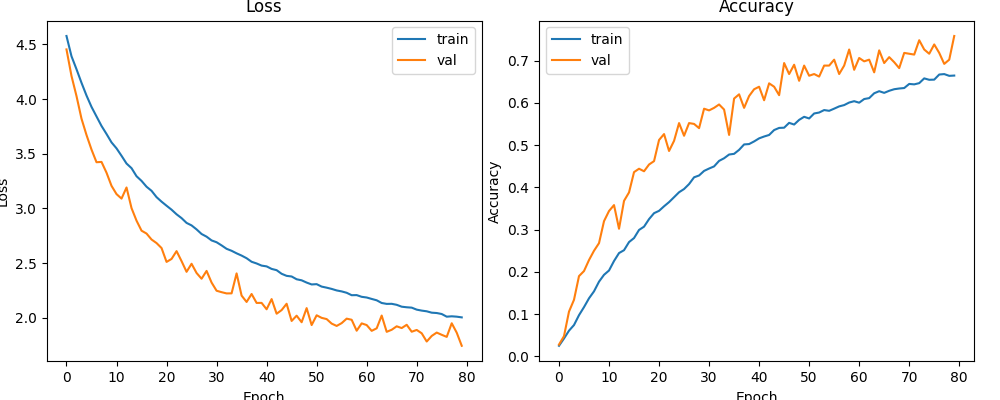
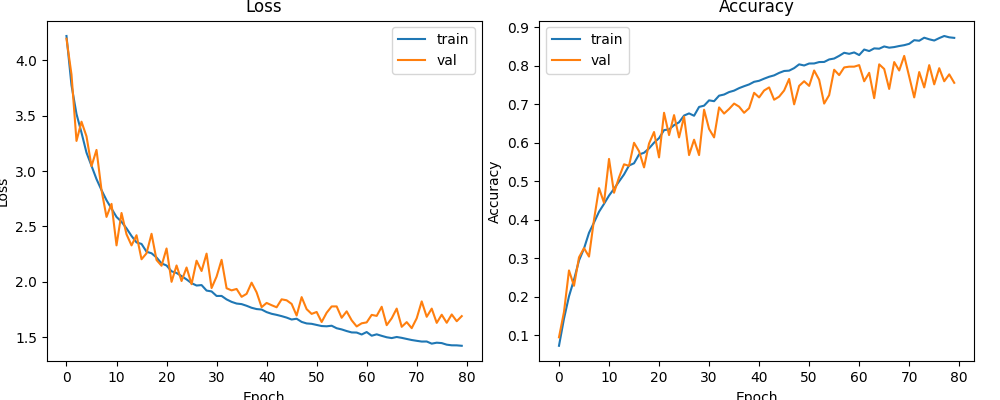
offload transforms to GPU + compile model + AMP [mixed precision]

diff --git a/master/VIPM/sports_classification/project_utils.py b/master/VIPM/sports_classification/project_utils.py
@@ -28,37 +28,30 @@ def seed_everything(seed: int):
     # fallback kernel paths that produce NaN gradients, killing training entirely.
 
 
-def get_baseline_transforms() -> dict:
-    return {
-        'train': v2.Compose([
-            v2.ToImage(),
-            v2.RandomHorizontalFlip(),
-            v2.RandomResizedCrop(224, scale=(0.6, 1.0)),
-            v2.RandomAdjustSharpness(sharpness_factor=2),
-            v2.ToDtype(torch.float32, scale=True),
-        ]),
-        'val': v2.Compose([
-            v2.ToImage(),
-            v2.ToDtype(torch.float32, scale=True),
-        ]),
-    }
-
-def get_degraded_transforms() -> dict:
-    base_transf = get_baseline_transforms()
-    base_transf['train'] = v2.Compose([
+def get_val_transforms():
+    return v2.Compose([
         v2.ToImage(),
-        v2.RandomHorizontalFlip(),
-        v2.RandomResizedCrop(224, scale=(0.6, 1.0)),
-        v2.ColorJitter(
-            brightness=0.35,
-            contrast=0.4,
-            saturation=(0.7, 3.0),  # tuple → asymmetric; degradation is predominantly a saturation increase
-            hue=0.25,  # covers ~80% of observed hue shifts
-        ),
-        v2.RandomAdjustSharpness(sharpness_factor=2),
         v2.ToDtype(torch.float32, scale=True)
     ])
-    return base_transf
+
+
+def get_cpu_train_transform():
+    return v2.ToImage()
+
+
+def get_gpu_train_transform(degraded=False):
+    steps = [
+        v2.RandomHorizontalFlip(),
+        v2.RandomResizedCrop(224, scale=(0.6, 1.0)),
+    ]
+    if degraded:
+        steps.append(v2.ColorJitter(
+            brightness=0.35, contrast=0.4,
+            saturation=(0.7, 3.0), hue=0.25,
+        ))
+    steps.append(v2.RandomAdjustSharpness(sharpness_factor=2))
+    steps.append(v2.ToDtype(torch.float32, scale=True))
+    return v2.Compose(steps)
 
 
 def plot_performance(metrics: dict, save_path: str):
@@ -104,8 +97,10 @@ def mixup_criterion(criterion, pred, y_a, y_b, lam):
 
 
 def train(model, lossfun, optimizer, *, train_loader, val_loader, train_size, val_size,
-          device, metrics, scheduler=None, num_epochs=20, mixup_alpha=0.0):
+          device, metrics, scheduler=None, num_epochs=20,
+          train_gpu_transform=None, use_amp=False):
     since = time.time()
+    scaler = torch.GradScaler() if use_amp else None
 
     with TemporaryDirectory() as tempdir:
         best_model_path = os.path.join(tempdir, 'best_model_params.pt')
@@ -124,31 +119,27 @@ def train(model, lossfun, optimizer, *, train_loader, val_loader, train_size, va
                 running_corrects = torch.tensor(0, device=device)
 
                 for inputs, labels in dataloader:
-                    inputs = inputs.to(device)
-                    labels = labels.to(device)
+                    inputs = inputs.to(device, non_blocking=True)
+                    labels = labels.to(device, non_blocking=True)
+                    if phase == 'train' and train_gpu_transform is not None:
+                        inputs = train_gpu_transform(inputs)
                     optimizer.zero_grad()
 
                     with torch.set_grad_enabled(phase == 'train'):
-                        if phase == 'train' and mixup_alpha > 0:
-                            # apply mixup to blend inputs and labels for regularization
-                            inputs, targets_a, targets_b, lam = mixup_data(inputs, labels, mixup_alpha)
-                            outputs = model(inputs)
-                            loss = mixup_criterion(lossfun, outputs, targets_a, targets_b, lam)
-                            # always backward and optimizer step because we're already in 'train' phase if we mixup
-                            loss.backward()
-                            optimizer.step()
-                            _, preds = torch.max(outputs, 1)
-                            running_loss += loss.item() * inputs.size(0)
-                            running_corrects += torch.sum(preds == targets_a.data)
-                        else:
+                        with torch.autocast(device_type=device, dtype=torch.float16, enabled=(use_amp and phase == 'train')):
                             outputs = model(inputs)
                             _, preds = torch.max(outputs, 1)
                             loss = lossfun(outputs, labels)
-                            if phase == 'train':
+                        if phase == 'train':
+                            if scaler is not None:
+                                scaler.scale(loss).backward()
+                                scaler.step(optimizer)
+                                scaler.update()
+                            else:
                                 loss.backward()
                                 optimizer.step()
-                            running_loss += loss.item() * inputs.size(0)
-                            running_corrects += torch.sum(preds == labels.data)
+                        running_loss += loss.item() * inputs.size(0)
+                        running_corrects += torch.sum(preds == labels.data)
 
                 if phase == 'train' and scheduler is not None:
                     scheduler.step()

diff --git a/master/VIPM/sports_classification/degraded.py b/master/VIPM/sports_classification/degraded.py
@@ -12,12 +12,13 @@ import matplotlib.pyplot as plt
 import torch
 import torch.optim as optim
 from torch import nn
+from torch.optim import lr_scheduler
 from torchinfo import summary
 from torchvision import datasets
 from torchvision.transforms import v2
 
 from project_models import Baseline2
-from project_utils import get_device, get_degraded_transforms, plot_performance, seed_everything, train, write_training_log
+from project_utils import get_device, get_val_transforms, get_cpu_train_transform, get_gpu_train_transform, plot_performance, seed_everything, train, write_training_log
 
 SEED = 42
 NUM_EPOCHS = 80
@@ -34,14 +35,13 @@ parser.add_argument('--name', required=True, help='Checkpoint name (saved as mod
 args = parser.parse_args()
 
 # Task 2B: extend training transforms with degradation simulation
-data_transforms = get_degraded_transforms()
+gpu_train_transform = get_gpu_train_transform(degraded=True)
 
+train_ds = datasets.ImageFolder('data/train',  get_cpu_train_transform())
+val_ds = datasets.ImageFolder('data/valid', get_val_transforms())
 
-train_ds = datasets.ImageFolder('data/train', data_transforms['train'])
-val_ds = datasets.ImageFolder('data/valid', data_transforms['val'])
-
-train_loader = torch.utils.data.DataLoader(train_ds, batch_size=BATCH_SIZE, shuffle=True, num_workers=4, generator=_rng)
-val_loader = torch.utils.data.DataLoader(val_ds, batch_size=BATCH_SIZE, shuffle=True, num_workers=4, generator=_rng)
+train_loader = torch.utils.data.DataLoader(train_ds, batch_size=BATCH_SIZE, shuffle=True, num_workers=8, pin_memory=True, prefetch_factor=2, persistent_workers=True, generator=_rng)
+val_loader = torch.utils.data.DataLoader(val_ds, batch_size=BATCH_SIZE, shuffle=True, num_workers=8, pin_memory=True, prefetch_factor=2, persistent_workers=True, generator=_rng)
 
 class_names = train_ds.classes
 
@@ -54,23 +54,30 @@ metrics = {
 
 device = get_device()
 
-model_ft = Baseline2().to(device)
-summary(model_ft)
+model = Baseline2().to(device)
+summary(model)
 
 loss_fn = nn.CrossEntropyLoss(label_smoothing=0.1)
-optimizer_ft = optim.Adam(model_ft.parameters(), lr=1e-3)
+optimizer_ft = optim.Adam(model.parameters(), lr=1e-3)
 
-model_ft, _best_val, _elapsed = train(
-    model_ft, loss_fn, optimizer_ft,
+#scheduler = lr_scheduler.CosineAnnealingWarmRestarts(optimizer_ft, T_0=20, T_mult=2, eta_min=1e-6)
+
+torch.set_float32_matmul_precision('high')
+model_compiled = torch.compile(model)
+
+model_compiled, _best_val, _elapsed = train(
+    model_compiled, loss_fn, optimizer_ft,
     train_loader=train_loader, val_loader=val_loader,
     train_size=len(train_ds), val_size=len(val_ds),
     device=device, metrics=metrics,
     num_epochs=NUM_EPOCHS,
+#    scheduler=scheduler,
+    train_gpu_transform=gpu_train_transform,
 )
 
 plot_performance(metrics, os.path.join('models', f'{args.name}.png'))
 
-torch.save(model_ft.state_dict(), os.path.join('models', f'{args.name}.pt'))
+torch.save(model.state_dict(), os.path.join('models', f'{args.name}.pt'))
 write_training_log(args.name, _elapsed, NUM_EPOCHS, metrics, degraded=True)
 
 plt.ioff()

diff --git a/master/VIPM/sports_classification/baseline.py b/master/VIPM/sports_classification/baseline.py
@@ -13,7 +13,7 @@ from torchinfo import summary
 from torchvision import datasets
 
 from project_models import Baseline2
-from project_utils import get_device, get_baseline_transforms, plot_performance, seed_everything, train, write_training_log
+from project_utils import get_device, get_val_transforms, get_cpu_train_transform, get_gpu_train_transform, plot_performance, seed_everything, train, write_training_log
 
 SEED = 42
 NUM_EPOCHS = 80
@@ -29,13 +29,13 @@ parser = argparse.ArgumentParser()
 parser.add_argument('--name', required=True, help='Checkpoint name (saved as models/<name>.pt)')
 args = parser.parse_args()
 
-data_transforms = get_baseline_transforms()
+gpu_train_transform = get_gpu_train_transform(degraded=False)
 
-train_ds = datasets.ImageFolder('data/train', data_transforms['train'])
-val_ds = datasets.ImageFolder('data/valid', data_transforms['val'])
+train_ds = datasets.ImageFolder('data/train', get_cpu_train_transform())
+val_ds = datasets.ImageFolder('data/valid', get_val_transforms())
 
-train_loader = torch.utils.data.DataLoader(train_ds, batch_size=BATCH_SIZE, shuffle=True, num_workers=4, generator=_rng)
-val_loader = torch.utils.data.DataLoader(val_ds, batch_size=BATCH_SIZE, shuffle=True, num_workers=4, generator=_rng)
+train_loader = torch.utils.data.DataLoader(train_ds, batch_size=BATCH_SIZE, shuffle=True, num_workers=8, pin_memory=True, prefetch_factor=2, persistent_workers=True, generator=_rng)
+val_loader = torch.utils.data.DataLoader(val_ds, batch_size=BATCH_SIZE, shuffle=True, num_workers=8, pin_memory=True, prefetch_factor=2, persistent_workers=True, generator=_rng)
 
 class_names = train_ds.classes
 
@@ -74,27 +74,29 @@ def display_predicts(model, num_images=6):
     model.train(mode=was_training)
 
 
-model_ft = Baseline2().to(device)
-summary(model_ft)
+model = Baseline2().to(device)
+summary(model)
 
 loss_fn = nn.CrossEntropyLoss()
-optimizer_ft = optim.Adam(model_ft.parameters(), lr=1e-3)
+optimizer_ft = optim.Adam(model.parameters(), lr=1e-3)
 
-# Cosine LR decay example (unused):
-# scheduler = lr_scheduler.CosineAnnealingLR(optimizer_ft, T_max=45, eta_min=1e-6)
+torch.set_float32_matmul_precision('high')
+model_compiled = torch.compile(model)
 
-model_ft, _best_val, _elapsed = train(
-    model_ft, loss_fn, optimizer_ft,
+model_compiled, _best_val, _elapsed = train(
+    model_compiled, loss_fn, optimizer_ft,
     train_loader=train_loader, val_loader=val_loader,
     train_size=len(train_ds), val_size=len(val_ds),
     device=device, metrics=metrics,
     num_epochs=NUM_EPOCHS,
+    train_gpu_transform=gpu_train_transform,
+    use_amp=True
 )
 
 plot_performance(metrics, os.path.join('models', f'{args.name}.png'))
-display_predicts(model_ft)
+display_predicts(model)
 
-torch.save(model_ft.state_dict(), os.path.join('models', f'{args.name}.pt'))
+torch.save(model.state_dict(), os.path.join('models', f'{args.name}.pt'))
 write_training_log(args.name, _elapsed, NUM_EPOCHS, metrics)
 
 plt.ioff()